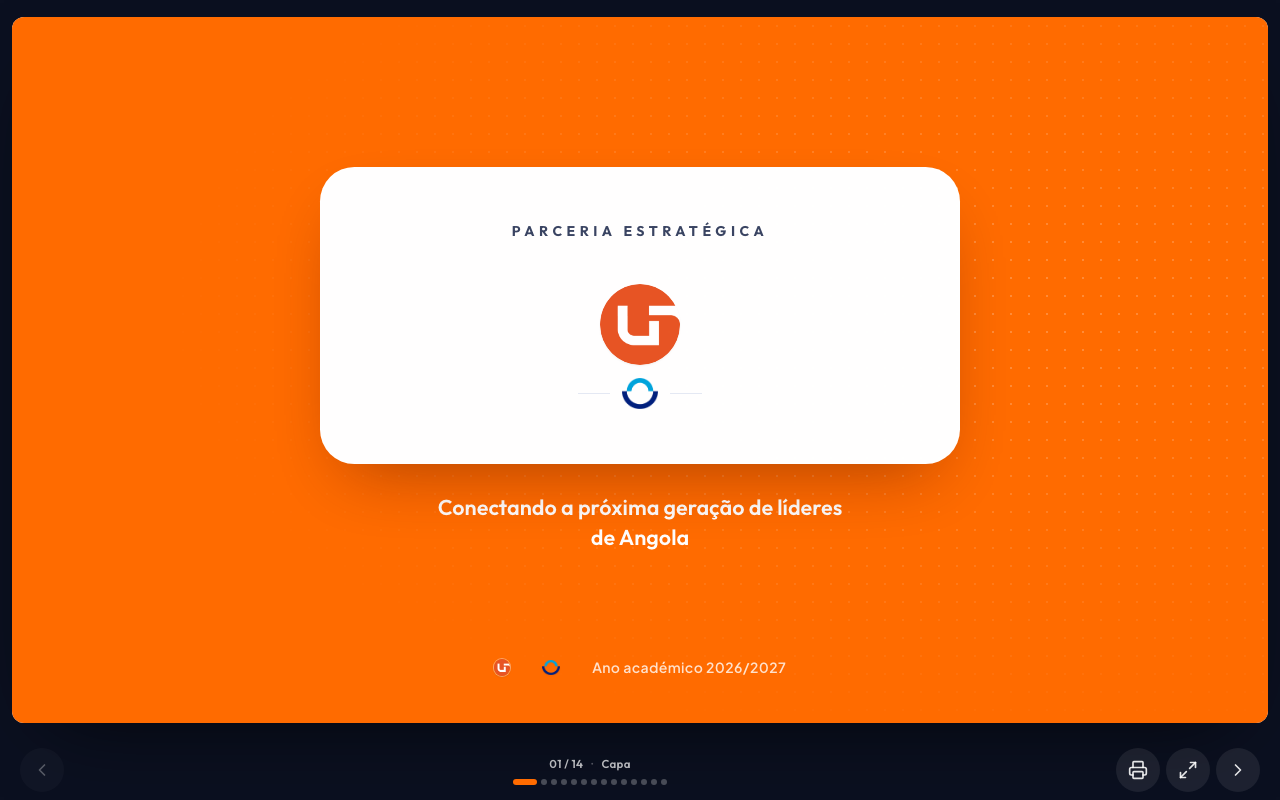
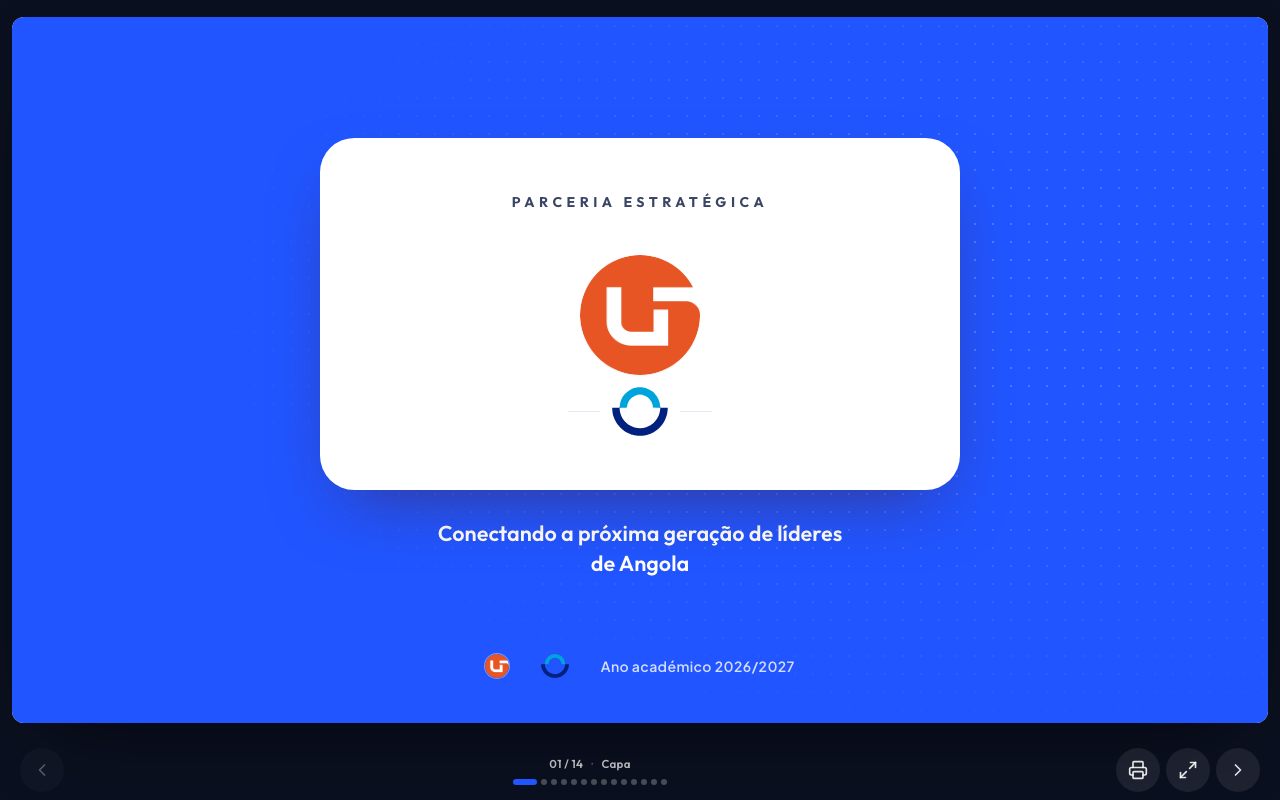
fix: update theme colors to blue, adjust asset imports, and modify timestamps in configuration files

diff --git a/src/components/deck/slides.tsx b/src/components/deck/slides.tsx
@@ -61,7 +61,7 @@ function Art({
 
 function SlideCover() {
   return (
-    <Slide theme="orange">
+    <Slide theme="blue">
       <div className="flex flex-1 flex-col items-center justify-center text-center">
         <CoverBadge />
         <p className="mt-[clamp(1.2rem,3cqi,1.8rem)] max-w-md font-display text-[clamp(1rem,2.2cqi,1.35rem)] font-semibold leading-snug text-white">
@@ -120,7 +120,7 @@ function SlideOpportunity() {
         universitária de cada estudante.
       </Lead>
       <StepFlow
-        accent="orange"
+        accent="blue"
         steps={[
           { icon: Shield, label: "Cartão oficial", sub: "Selo MESCTI 2026" },
           { icon: GraduationCap, label: "Adesão nacional", sub: "Todas as IES" },
@@ -136,7 +136,7 @@ function SlideOpportunity() {
 function SlideVision() {
   return (
     <SplitShell
-      tone="orange"
+      tone="blue"
       visual={
         <div className="relative h-full min-h-52">
           <Art
@@ -144,8 +144,8 @@ function SlideVision() {
             alt="Colagem gráfica de capelo, livro, telemóvel e maleta sobre fundo laranja"
             className="absolute inset-0 size-full"
           />
-          <div className="absolute inset-x-0 top-0 h-[32%] bg-linear-to-b from-unitel via-unitel/80 to-transparent" />
-          <div className="absolute inset-x-0 bottom-0 h-[48%] bg-linear-to-t from-unitel via-unitel/90 to-transparent" />
+          <div className="absolute inset-x-0 top-0 h-[32%] bg-linear-to-b from-ceu via-ceu/80 to-transparent" />
+          <div className="absolute inset-x-0 bottom-0 h-[48%] bg-linear-to-t from-ceu via-ceu/90 to-transparent" />
           <div className="relative z-10 flex h-full flex-col justify-end pad-slide">
             <p className="text-hero text-cream">
               liga
@@ -166,13 +166,13 @@ function SlideVision() {
         UNITEL e a próxima geração de profissionais, empreendedores e líderes de Angola.
       </Lead>
       <ul className="mt-auto">
-        <ListRow icon={Radio} accent="orange">
+        <ListRow icon={Radio} accent="blue">
           Operadora Oficial da Comunidade Universitária de Angola
         </ListRow>
-        <ListRow icon={Wifi} accent="orange">
+        <ListRow icon={Wifi} accent="blue">
           Conectividade, inclusão financeira e benefícios exclusivos
         </ListRow>
-        <ListRow icon={Sparkles} accent="orange">
+        <ListRow icon={Sparkles} accent="blue">
           A marca que acompanha o estudante durante 4 anos de jornada
         </ListRow>
       </ul>
@@ -190,19 +190,19 @@ function SlideAudience() {
             <h2 className="font-display text-[clamp(1.05rem,2cqi,1.35rem)] font-extrabold text-ink">
               Público principal
             </h2>
-            <Pill tone="orange">Foco</Pill>
+            <Pill tone="blue">Foco</Pill>
           </div>
           <ul>
-            <ListRow icon={GraduationCap} accent="orange">
+            <ListRow icon={GraduationCap} accent="blue">
               Estudantes do ensino superior em Angola
             </ListRow>
-            <ListRow icon={Users} accent="orange">
+            <ListRow icon={Users} accent="blue">
               Jovens em fase de escolha académica e profissional
             </ListRow>
-            <ListRow icon={Target} accent="orange">
+            <ListRow icon={Target} accent="blue">
               Nova geração de profissionais, empreendedores e líderes
             </ListRow>
-            <ListRow icon={Briefcase} accent="orange">
+            <ListRow icon={Briefcase} accent="blue">
               Jovens a entrar no mercado de trabalho
             </ListRow>
           </ul>
@@ -215,19 +215,19 @@ function SlideAudience() {
             <Pill>Parceiros</Pill>
           </div>
           <ul>
-            <ListRow icon={Building2} accent="orange">
+            <ListRow icon={Building2} accent="blue">
               Instituições de ensino superior
             </ListRow>
-            <ListRow icon={Landmark} accent="orange">
+            <ListRow icon={Landmark} accent="blue">
               MESCTI e rede nacional CEU
             </ListRow>
-            <ListRow icon={Handshake} accent="orange">
+            <ListRow icon={Handshake} accent="blue">
               Parceiros comerciais e benefícios no terreno
             </ListRow>
-            <ListRow icon={Rocket} accent="orange">
+            <ListRow icon={Rocket} accent="blue">
               Empresas e startups ligadas à comunidade
             </ListRow>
-            <ListRow icon={Heart} accent="orange">
+            <ListRow icon={Heart} accent="blue">
               Pais e encarregados de educação
             </ListRow>
           </ul>
@@ -286,7 +286,7 @@ function SlideModel() {
 function SlideFlow() {
   return (
     <SplitShell
-      tone="orange"
+      tone="blue"
       visual={
         <div className="relative flex h-full min-h-52 flex-col justify-between pad-slide">
           <div />
@@ -374,7 +374,7 @@ function SlideRevenue() {
       </Lead>
       <div className="mt-auto grid flex-1 grid-cols-1 gap-4 pt-[clamp(1rem,2.4cqi,1.6rem)] md:grid-cols-2">
         <article className="flex h-full flex-col rounded-card bg-white p-[clamp(1.1rem,2.6cqi,1.8rem)] shadow-(--shadow-border)">
-          <p className="text-kicker text-unitel">Fase inicial</p>
+          <p className="text-kicker text-ceu">Fase inicial</p>
           <p className="mt-3 font-display text-[clamp(2.1rem,5.4cqi,3.6rem)] font-extrabold leading-none tracking-tight text-ink">
             150 M Kz
           </p>
@@ -382,7 +382,7 @@ function SlideRevenue() {
             50.000 estudantes × 3.000 Kz em recargas Unitel.
           </p>
         </article>
-        <article className="flex h-full flex-col rounded-card bg-unitel p-[clamp(1.1rem,2.6cqi,1.8rem)] text-white">
+        <article className="flex h-full flex-col rounded-card bg-ceu p-[clamp(1.1rem,2.6cqi,1.8rem)] text-white">
           <p className="text-kicker text-white/80">Potencial de escala</p>
           <p className="mt-3 font-display text-[clamp(2.1rem,5.4cqi,3.6rem)] font-extrabold leading-none tracking-tight">
             360 M Kz
@@ -417,7 +417,7 @@ function SlideVisibility() {
             key={item.title}
             className="flex h-full flex-col rounded-tile bg-white p-[clamp(0.85rem,1.8cqi,1.2rem)] shadow-(--shadow-border)"
           >
-            <IconOrb icon={item.icon} accent="orange" size="sm" />
+            <IconOrb icon={item.icon} accent="blue" size="sm" />
             <h3 className="mt-3 text-card-title text-ink">{item.title}</h3>
             <p className="mt-1 text-card-body text-ink-soft">{item.body}</p>
           </article>
@@ -446,7 +446,7 @@ function SlideKpis() {
             key={kpi.label}
             className="flex h-full flex-col items-center rounded-card bg-white px-3 py-[clamp(1rem,2.2cqi,1.5rem)] text-center shadow-(--shadow-border)"
           >
-            <IconOrb icon={kpi.icon} accent="orange" />
+            <IconOrb icon={kpi.icon} accent="blue" />
             <p className="mt-3 font-display text-[clamp(1.35rem,2.8cqi,1.9rem)] font-extrabold leading-none tracking-tight text-ink">
               {kpi.value}
             </p>
@@ -515,7 +515,7 @@ function SlideBenefits() {
 function SlideCampaign() {
   return (
     <SplitShell
-      tone="orange"
+      tone="blue"
       visual={
         <div className="relative h-full min-h-52">
           <Art
@@ -540,7 +540,7 @@ function SlideCampaign() {
         {["Conectividade", "Educação", "Inclusão", "Oportunidades"].map((tag) => (
           <span
             key={tag}
-            className="rounded-full bg-cream px-3 py-1.5 font-display text-[0.72rem] font-bold text-unitel"
+            className="rounded-full bg-paper px-3 py-1.5 font-display text-[0.72rem] font-bold text-ceu"
           >
             {tag}
           </span>
@@ -552,11 +552,11 @@ function SlideCampaign() {
 
 function SlideContact() {
   return (
-    <Slide theme="orange" flush>
+    <Slide theme="blue" flush>
       <div className="relative flex min-h-48 flex-[0.55] flex-col items-center justify-center pad-slide">
         <div className="dot-field" />
         <div className="relative z-10 rounded-4xl bg-white px-[8%] py-[7%] text-center shadow-[0_24px_60px_-28px_rgb(80,20,0,0.45)]">
-          <div className="flex justify-center text-[clamp(1.8rem,5.4cqi,3.2rem)] text-unitel">
+          <div className="flex justify-center text-[clamp(1.8rem,5.4cqi,3.2rem)] text-ceu">
             <UnitelMark />
           </div>
           <div className="mt-3 flex items-center justify-center gap-3 text-ink">
@@ -578,7 +578,7 @@ function SlideContact() {
           Juntos, ligamos a próxima geração ao seu futuro.
         </p>
         <div className="mt-6 inline-flex w-fit overflow-hidden rounded-full">
-          <span className="bg-unitel px-5 py-3 font-display text-[clamp(0.72rem,1.2cqi,0.82rem)] font-bold tracking-wide text-white">
+          <span className="bg-ceu px-5 py-3 font-display text-[clamp(0.72rem,1.2cqi,0.82rem)] font-bold tracking-wide text-white">
             CONTACTOS
           </span>
           <a

diff --git a/src/components/deck/primitives.tsx b/src/components/deck/primitives.tsx
@@ -140,7 +140,7 @@ export function Lead({
 
 export function IconOrb({
   icon: Icon,
-  accent = "orange",
+  accent = "blue",
   size = "md",
 }: {
   icon: LucideIcon;
@@ -172,7 +172,7 @@ export function FeatureCard({
   body,
   tag,
   featured = false,
-  accent = "orange",
+  accent = "blue",
 }: {
   n?: string;
   icon: LucideIcon;
@@ -245,7 +245,7 @@ export function Torn({ tone }: { tone: "orange" | "blue" }) {
 
 export function StepFlow({
   steps,
-  accent = "orange",
+  accent = "blue",
 }: {
   steps: { icon: LucideIcon; label: string; sub?: string }[];
   accent?: "orange" | "blue";

diff --git a/src/components/deck/DeckApp.tsx b/src/components/deck/DeckApp.tsx
@@ -127,7 +127,7 @@ export function DeckApp() {
                 onClick={() => go(i)}
                 className={cn(
                   "h-1.5 rounded-full transition-all duration-150",
-                  i === index ? "w-6 bg-unitel" : "w-1.5 bg-white/25 hover:bg-white/50",
+                  i === index ? "w-6 bg-ceu" : "w-1.5 bg-white/25 hover:bg-white/50",
                 )}
               />
             ))}

diff --git a/src/routes/__root.tsx b/src/routes/__root.tsx
@@ -16,7 +16,7 @@ export const Route = createRootRoute({
         content:
           "Proposta de parceria estratégica UNITEL + CEU — Operadora Oficial da Comunidade Universitária de Angola.",
       },
-      { name: "theme-color", content: "#FF6B00" },
+      { name: "theme-color", content: "#2155FF" },
     ],
     links: [
       { rel: "icon", type: "image/svg+xml", href: "/favicon.svg" },
